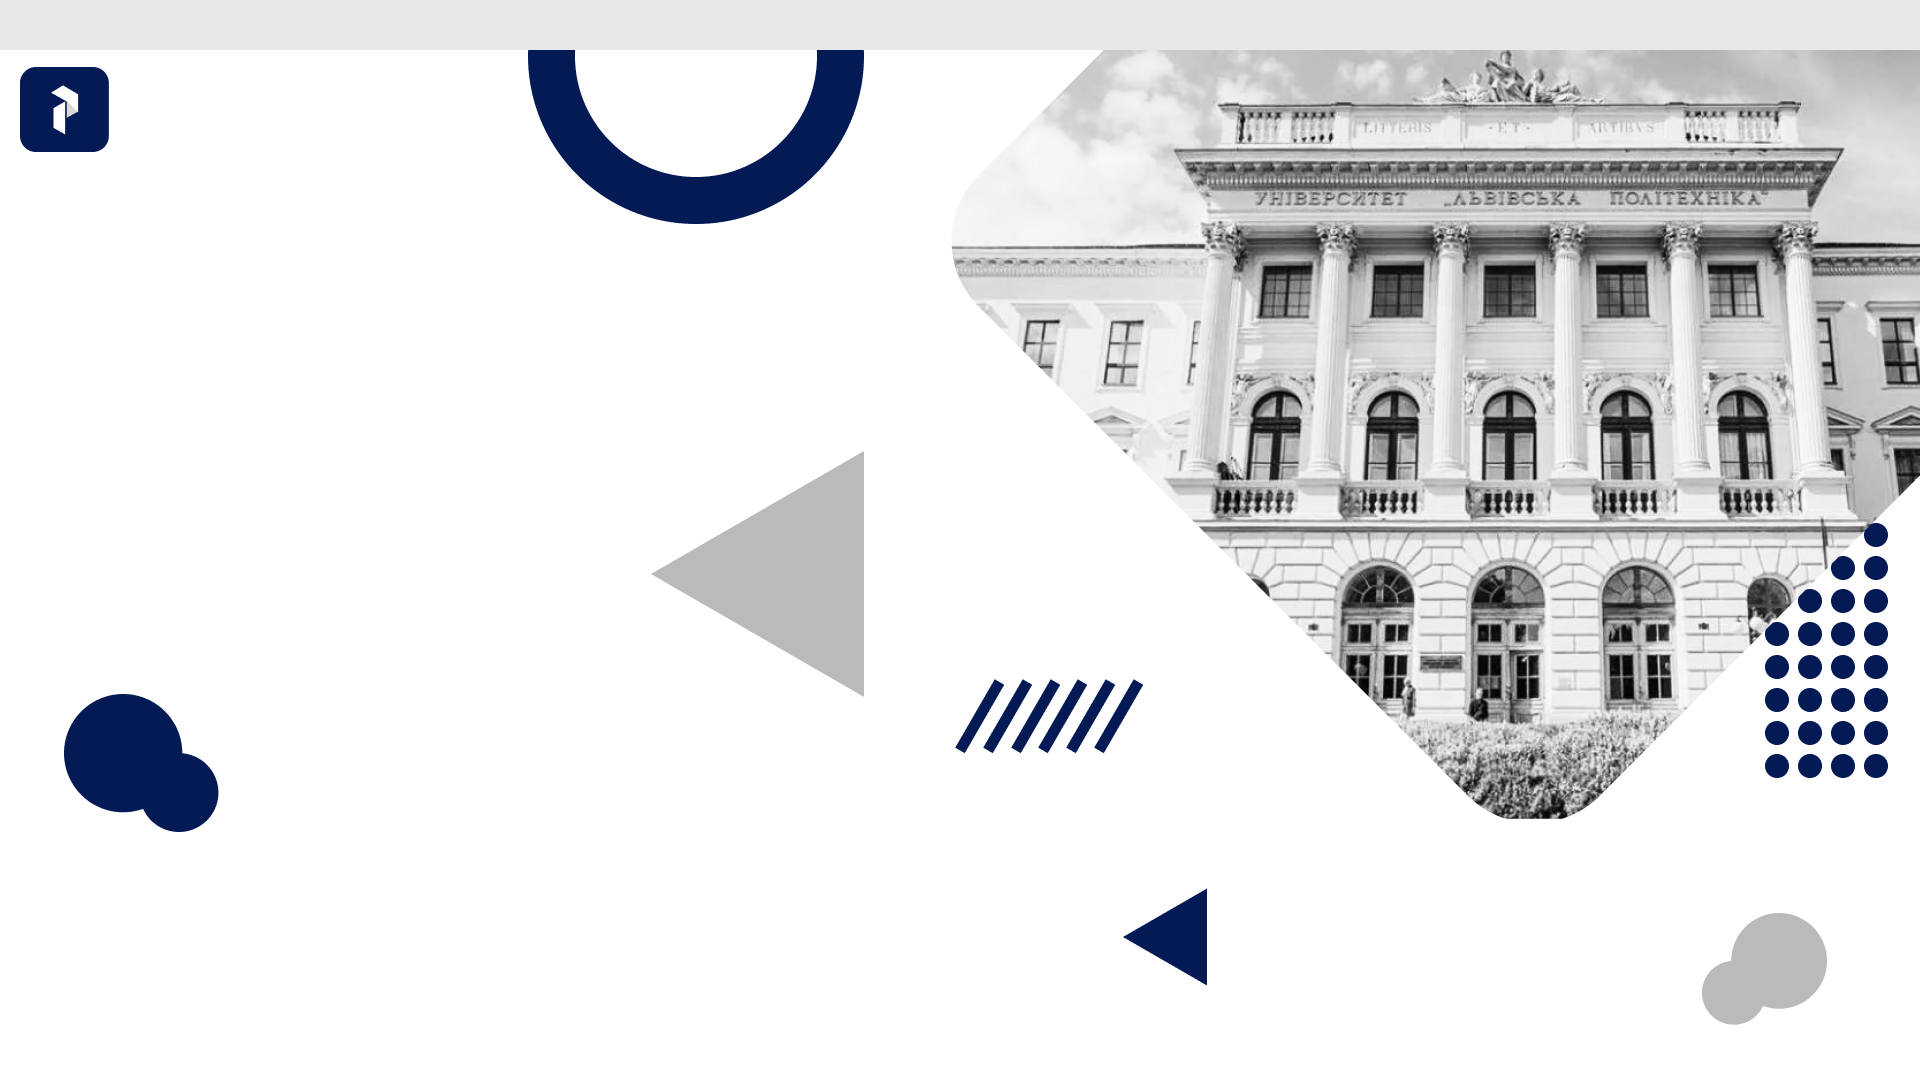
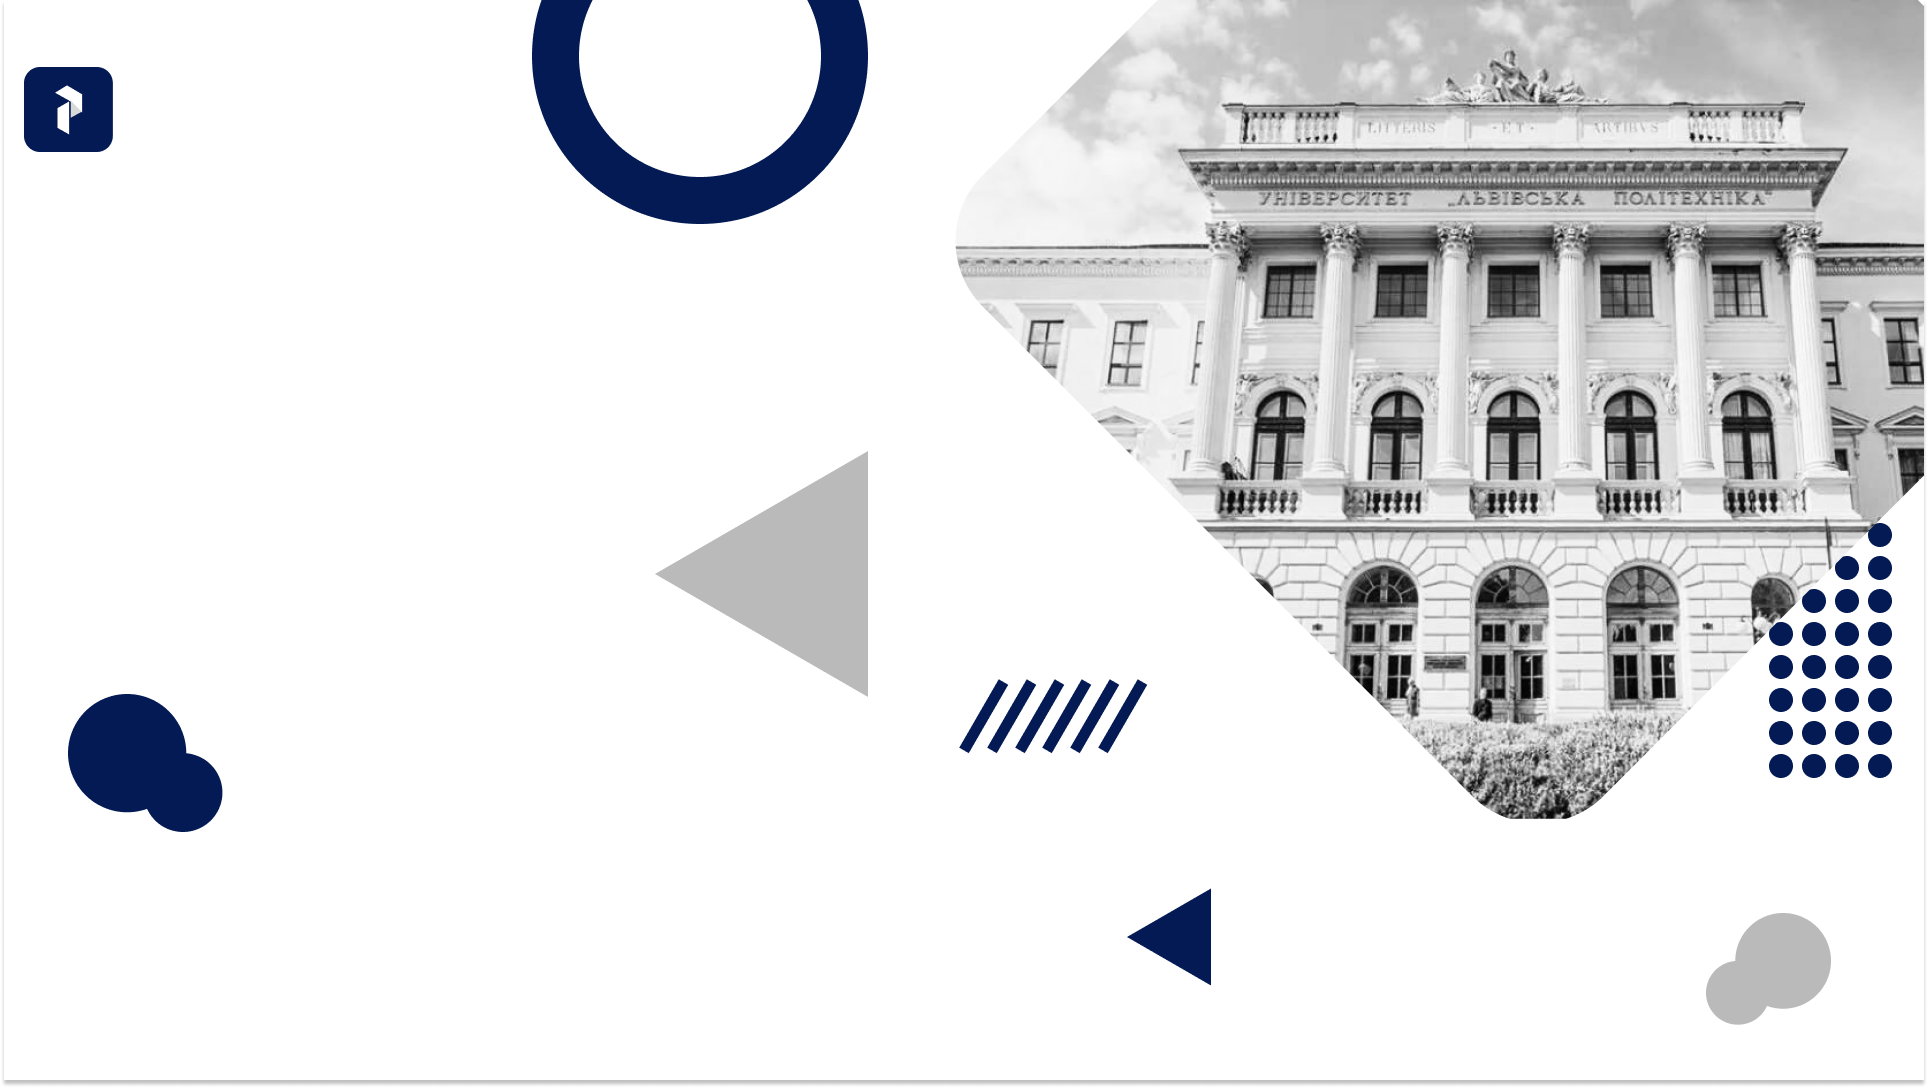
bugfix

diff --git a/test-site/pages/main.html b/test-site/pages/main.html
@@ -18,7 +18,7 @@
           <h2 id="text2">Онлайн-помічник <br> Для студентів</h2>
         </div>
         <div id="chat-panel">
-           <div id="chat-messages"><div id="chat-placeholder">Чат-помічник</div></div>
+            <div id="chat-messages"><div id="chat-placeholder">Чат-помічник</div></div>
             <div id="input-box">
               <input id="msg" placeholder="Чим можу допомогти?" />
               <button id="sendBtn">Send</button>

diff --git a/test-site/styles/main.css b/test-site/styles/main.css
@@ -177,6 +177,8 @@
   padding: 10px;
   background: rgb(213, 212, 212);
   box-sizing: border-box;
+  width: 100%;
+  flex-shrink: 0;
 }
 
 
@@ -187,6 +189,7 @@
   border: none;
   background: #bebebe;
   color: rgb(0, 0, 0);
+  min-width: 0;
 }
 
 #input-box button {
@@ -197,6 +200,7 @@
   color: white;
   cursor: pointer;
   border-radius: 15px;
+  flex-shrink: 0;
 }
 
 @keyframes fadeIn {

diff --git a/test-site/styles/practh.css b/test-site/styles/practh.css
@@ -10,7 +10,7 @@
 #text1 {
     position: absolute;
     top: 35vh;
-    left: 10.3vw;
+    left: 9.8%;
     font-size: 30px;
     font-family: 'Inter', regular;
     color: black;
